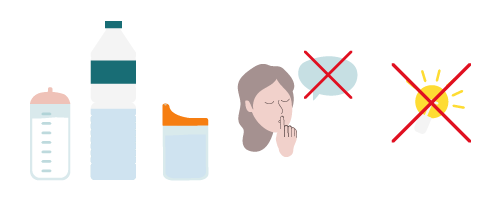
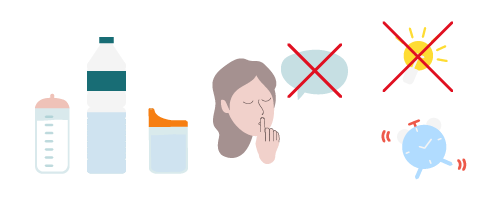
AJout nouvelles images.

diff --git a/database/seeds/ItemTableSeeder.php b/database/seeds/ItemTableSeeder.php
@@ -105,6 +105,49 @@ class ItemTableSeeder extends Seeder
             'thematic_id' => 1
         ]);
 
+        // CADRE DE VIE
+        Item::create([
+            'name' => 'cadreDeVie',
+            'medias' => [
+                "default/CADREDEVIE/zone1.png"
+            ],
+            'card_id' => 0,
+            'card_picture' => 'default/CADREDEVIE/carte.jpg',
+            'thematic_id' => 6
+        ]);
+        Item::create([
+            'name' => 'admin',
+            'medias' => [
+                "default/CADREDEVIE/admin/zone1.png",
+                "default/CADREDEVIE/admin/zone2.png",
+                "default/CADREDEVIE/admin/zone3.png"
+            ],
+            'card_id' => 0,
+            'card_picture' => 'default/CADREDEVIE/admin/carte.jpg',
+            'thematic_id' => 6
+        ]);
+        Item::create([
+            'name' => 'habitat',
+            'medias' => [
+                "default/CADREDEVIE/habitat/zone1.png",
+                "default/CADREDEVIE/habitat/zone2.png",
+                "default/CADREDEVIE/habitat/zone3.png"
+            ],
+            'card_id' => 0,
+            'card_picture' => 'default/CADREDEVIE/habitat/carte.jpg',
+            'thematic_id' => 6
+        ]);
+        Item::create([
+            'name' => 'modesDeGarde',
+            'medias' => [
+                "default/CADREDEVIE/modesDeGarde/zone1.png",
+                "default/CADREDEVIE/modesDeGarde/zone2.png"
+            ],
+            'card_id' => 0,
+            'card_picture' => 'default/CADREDEVIE/modesDeGarde/carte.jpg',
+            'thematic_id' => 6
+        ]);
+
         // SANTE
         Item::create([
             'name' => 'sante',
@@ -213,6 +256,18 @@ class ItemTableSeeder extends Seeder
             ],
             'card_id' => 0,
             'card_picture' => 'default/SANTE/ecrans/carte.jpg',
+            'thematic_id' => 3
+        ]);
+
+        Item::create([
+            'name' => 'devPsycho',
+            'medias' => [
+                "default/SANTE/devPsycho/zone1.png",
+                "default/SANTE/devPsycho/zone2.png",
+                "default/SANTE/devPsycho/zone3.png"
+            ],
+            'card_id' => 0,
+            'card_picture' => 'default/SANTE/devPsycho/carte.jpg',
             'thematic_id' => 3
         ]);
 
